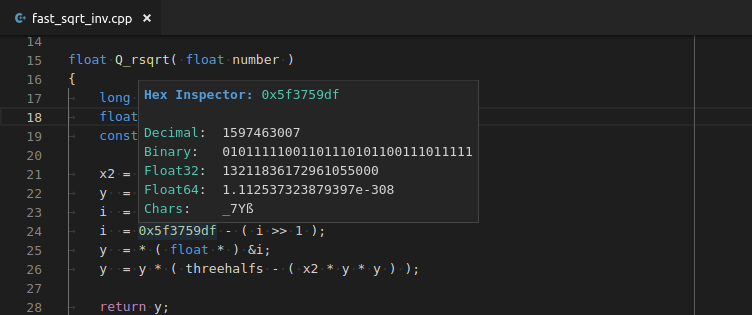
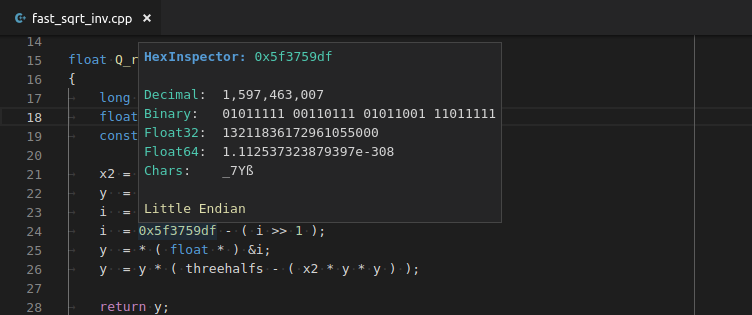
Update README.md

diff --git a/README.md b/README.md
@@ -4,14 +4,16 @@
 
 ## Overview
 
-**HexInspector** is a [VS Code] extension displaying a hover with conversions of the pointed hexadecimal value.
+**HexInspector** is an extension for [Visual Studio Code] provides fast and easy way to peek a hexadecimal value in different forms. The extension supports both `Little-Endian` and `Big-Endian` byte order. Hexadecimal values are recognized if they start with `0x` or `#` (e.g. `0x123`, `#1234`)
 
-Supported conversions:
-  - Decimal
+Hexadecimal value is converted to:
+  - Decimal - unsigned and signed (only if the highest bit is set)
   - Binary
   - Float32
   - Float64
   - Char sequence
+
+Extension can be downloaded from the [Marketplace].
 
 ## Screenshot
 
@@ -23,5 +25,6 @@ Supported conversions:
 
 
 
-[VS Code]: https://code.visualstudio.com/
+[Visual Studio Code]: https://code.visualstudio.com/
+[Marketplace]: https://marketplace.visualstudio.com/items?itemName=mateuszchudyk.hexinspector
 [MIT]: LICENSE
